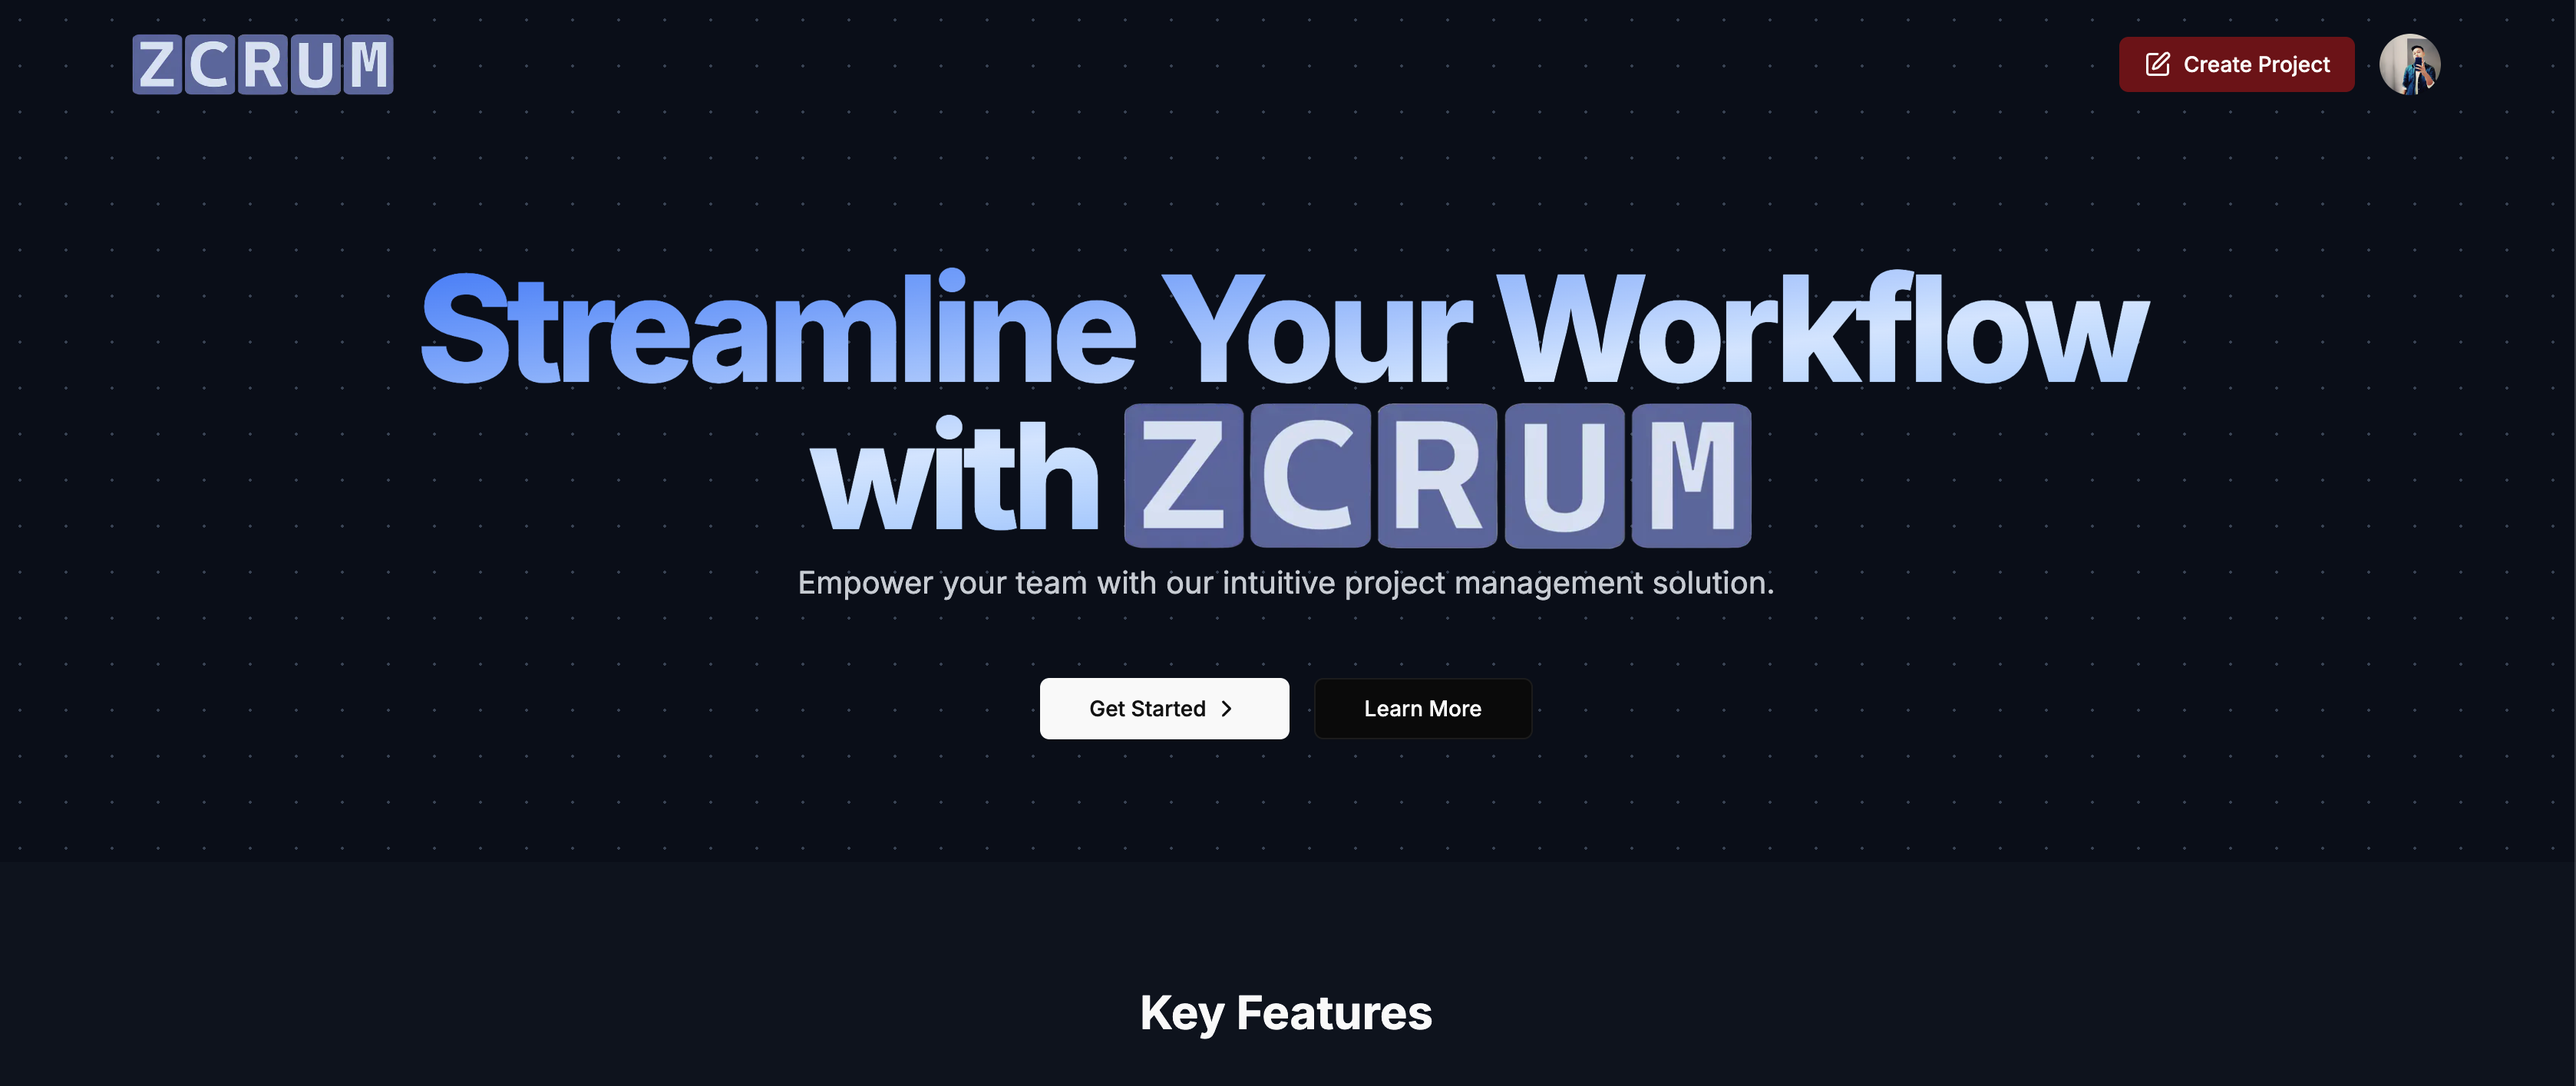
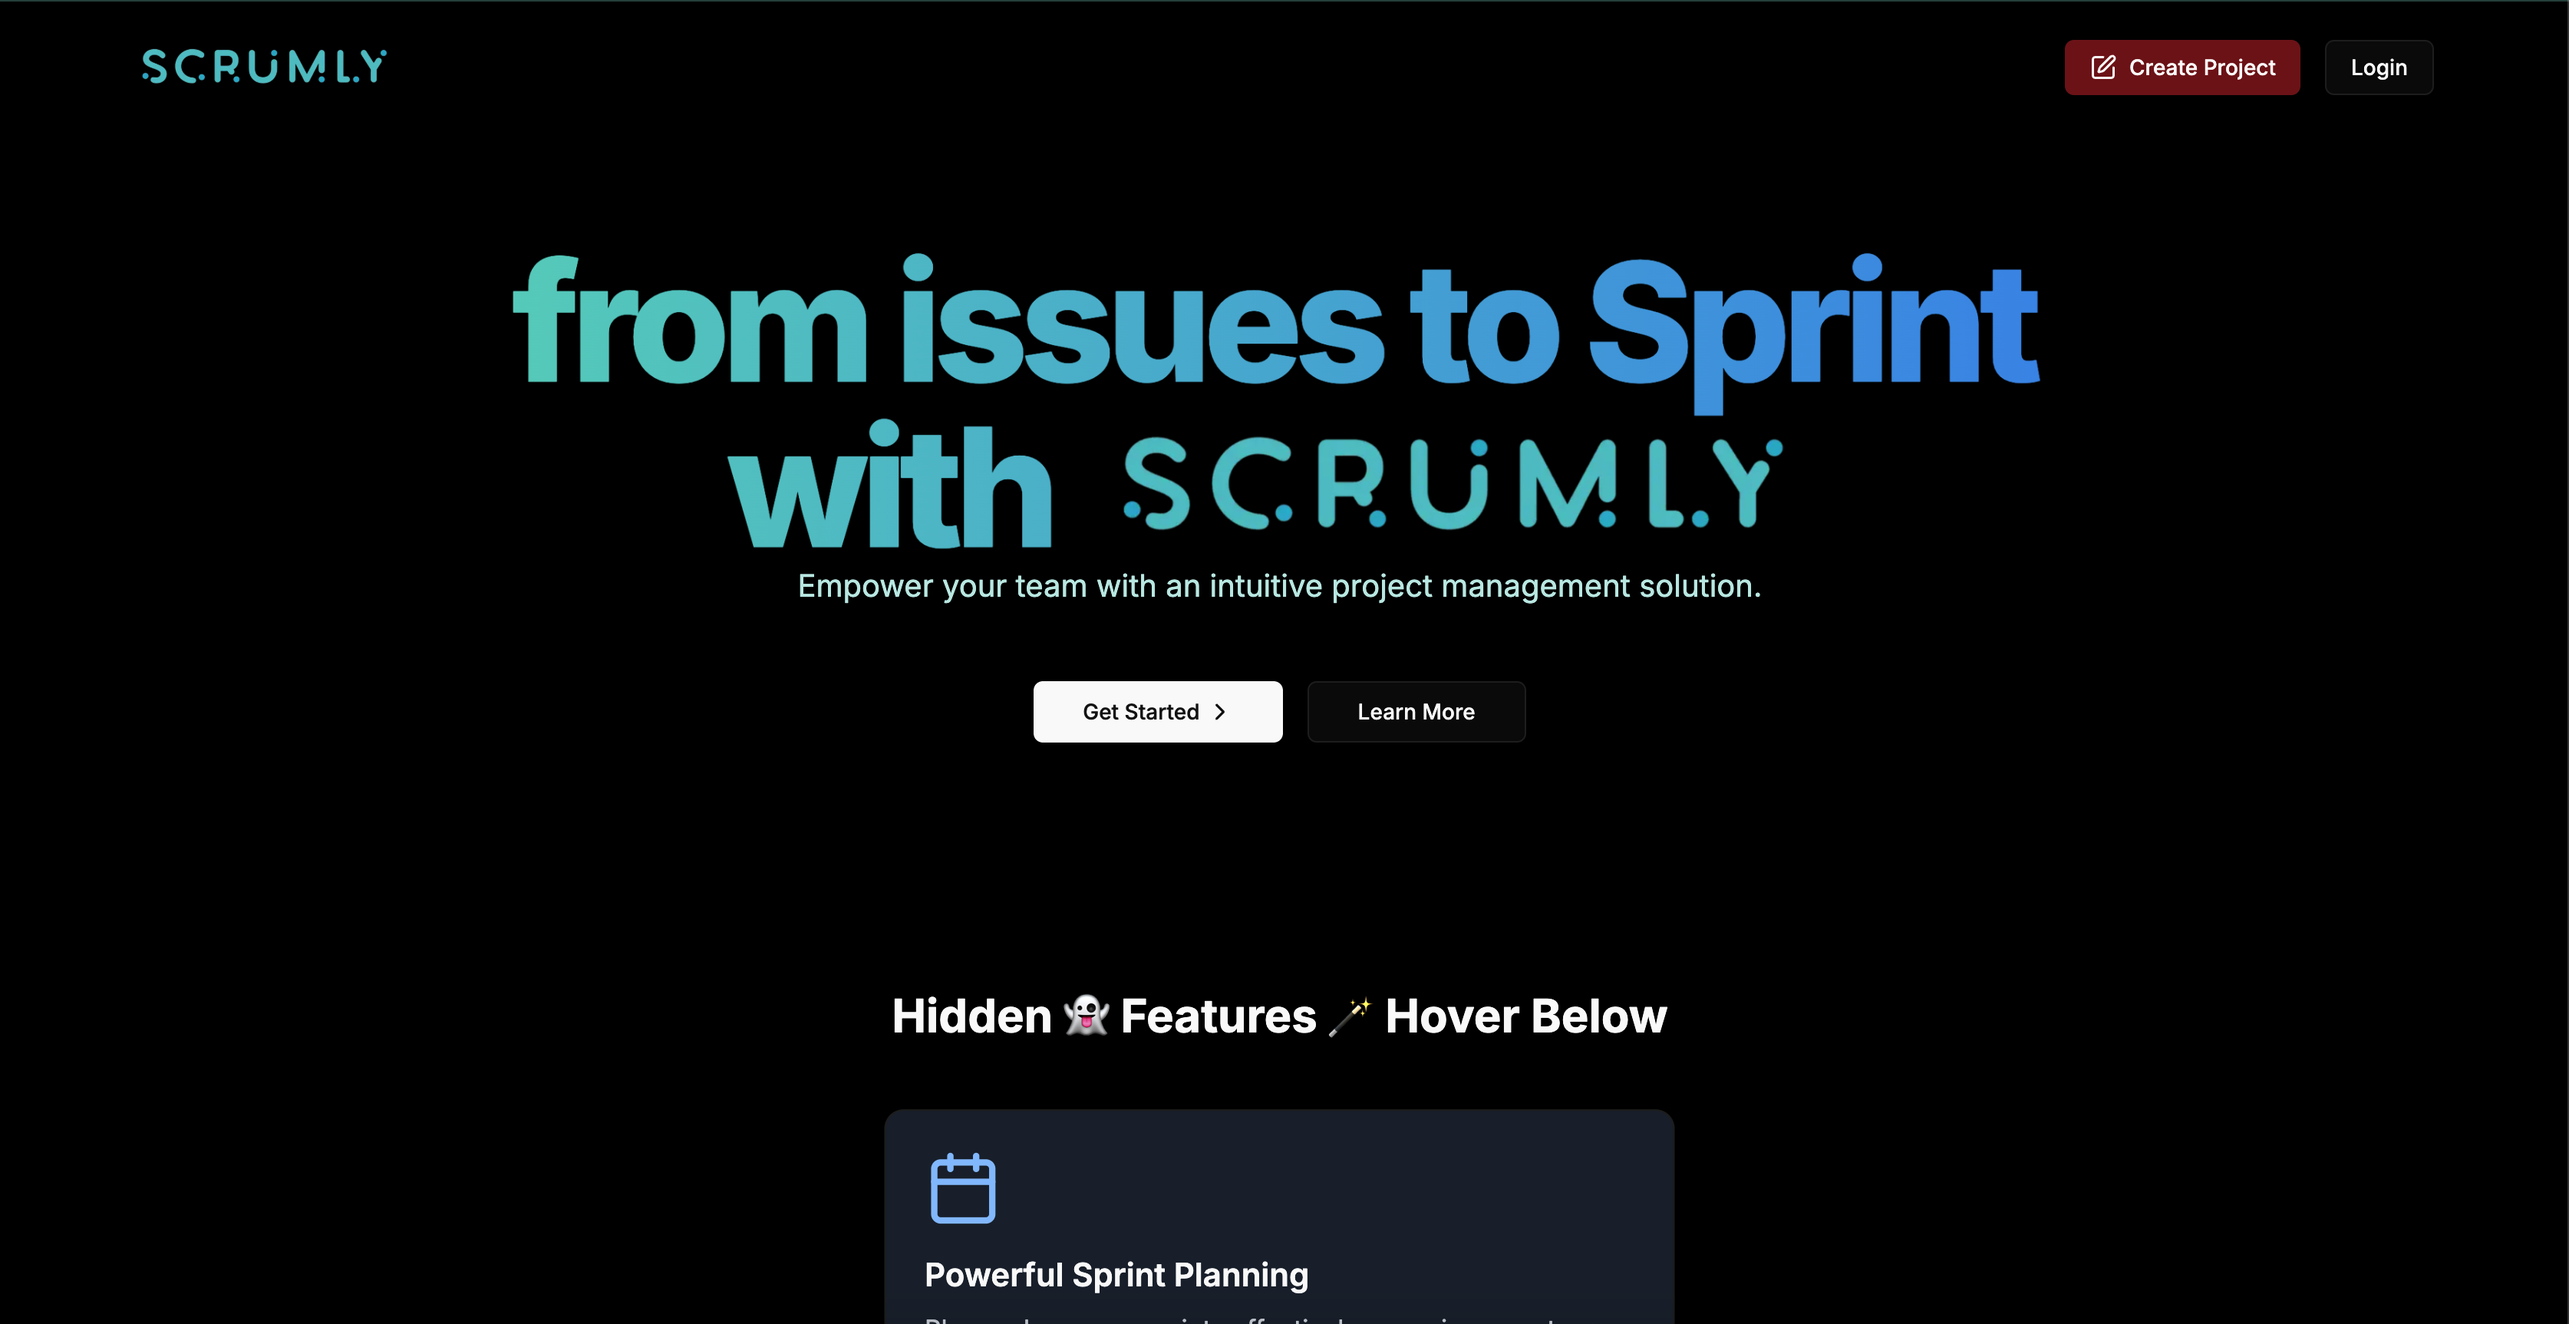
updation in datas

diff --git a/lib/data.ts b/lib/data.ts
@@ -24,25 +24,11 @@ export const experiencesData = [
     date: "Aug 2021 - Jun 2025",
   },
   {
-    title: "Full Stack Developer Intern",
-    location: "BlueStock Fintech",
-    description: "Designed a responsive frontend with React.js and Tailwind CSS, achieving 95% loading speeds in under 2 seconds. Developed the backend using Django, providing IPO services to over 1,000 users and managing secure record-keeping of over 5,000 IPO records with PostgreSQL.",
-    icon: React.createElement(CgWorkAlt),
-    date: "July 2024 - Aug 2024",
-  },
-  {
     title: "Python Developer Intern",
     location: "KoiReader Technologies",
     description: "Trained machine learning models with Python and OpenCV, achieving 95% accuracy on 1,000+ images. Built a high-performance video processing pipeline, automating workflows to reduce processing time by 50%.",
     icon: React.createElement(CgWorkAlt),
     date: "Jan 2023 - Jun 2024",
-  },
-  {
-    title: "Freelance Full-Stack Developer",
-    location: "Remote",
-    description: "Working as a freelance full-stack developer with a tech stack including React, Next.js, TypeScript, Tailwind, Prisma, and MongoDB. Open to full-time opportunities.",
-    icon: React.createElement(FaReact),
-    date: "June 2024 - present",
   },
 ] as const;
 
@@ -65,7 +51,7 @@ export const projectsData = [
     liveUrl: "https://foodie-bear.vercel.app/", // Add live link here
   },
   {
-    title: "Zcrum",
+    title: "Scrumly",
     description: "A Jira Type Project Management Web App for project progress Tracking with features of Assignee and sprint. ",
     tags: ["React", "Next.js", "SQL", "Tailwind", "Framer"],
     imageUrl: wordanalyticsImg,
@@ -76,6 +62,6 @@ export const projectsData = [
 
 export const skillsData = [
   "HTML", "CSS", "JavaScript", "TypeScript", "React", "Next.js", "Node.js", "Git", 
-  "Tailwind", "Prisma", "MongoDB", "Redux", "GraphQL", "Apollo", "Express", 
+  "Tailwind", "SQL", "AWS", "Docker" , "Prisma", "MongoDB", "Redux", "GraphQL", "Apollo", "Express", 
   "PostgreSQL", "Python", "Django", "Framer Motion"
 ] as const;
